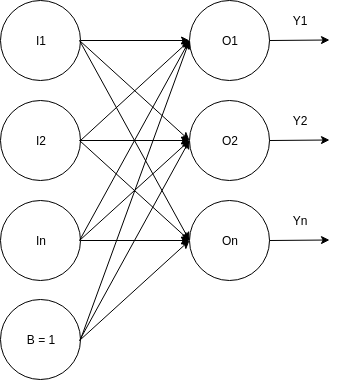
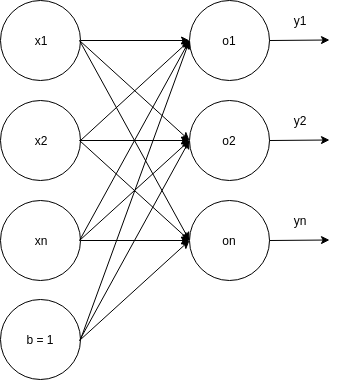
Typo fixes and enhancement from review

diff --git a/part2/train.go b/part2/train.go
@@ -13,11 +13,11 @@ type Neuron struct {
 	ActivationDerivative func(float64) float64
 }
 
-func (p Neuron) Predict(I1, I2 float64) float64 {
+func (p Neuron) Predict(x1, x2 float64) float64 {
 
 	var output float64
 
-	for i, input := range []float64{I1, I2, 1} {
+	for i, input := range []float64{x1, x2, 1} {
 		output += p.Weight[i] * input
 	}
 
@@ -71,35 +71,35 @@ func main() {
 
 	p.Train(
 		[][]float64{ // List of Inputs
-			[]float64{0, 1},
-			[]float64{1, 1},
-			[]float64{1, 0},
 			[]float64{0, 0},
+			[]float64{0, 1},
+			[]float64{1, 0},
+			[]float64{1, 1},
 		},
 		[]float64{ // Expected outputs
-			1,
-			1,
-			1,
 			0,
+			1,
+			1,
+			1,
 		},
 	)
 
 	// Test our data and print the network result
-	var a, b float64
+	var x1, x2 float64
 
-	a = 0.0
-	b = 0.0
-	fmt.Printf("(%f,%f) -> %f\n", a, b, p.Predict(a, b))
+	x1 = 0.0
+	x2 = 0.0
+	fmt.Printf("(%f,%f) = %f\n", x1, x2, p.Predict(x1, x2, 1))
 
-	a = 1.0
-	b = 0.0
-	fmt.Printf("(%f,%f) -> %f\n", a, b, p.Predict(a, b))
+	x1 = 1.0
+	x2 = 0.0
+	fmt.Printf("(%f,%f) = %f\n", x1, x2, p.Predict(x1, x2, 1))
 
-	a = 0.0
-	b = 1.0
-	fmt.Printf("(%f,%f) -> %f\n", a, b, p.Predict(a, b))
+	x1 = 0.0
+	x2 = 1.0
+	fmt.Printf("(%f,%f) = %f\n", x1, x2, p.Predict(x1, x2, 1))
 
-	a = 1.0
-	b = 1.0
-	fmt.Printf("(%f,%f) -> %f\n", a, b, p.Predict(a, b))
+	x1 = 1.0
+	x2 = 1.0
+	fmt.Printf("(%f,%f) = %f\n", x1, x2, p.Predict(x1, x2, 1))
 }

diff --git a/part1/or_gate.go b/part1/or_gate.go
@@ -10,14 +10,13 @@ type Neuron struct {
 	Activation func(float64) float64
 }
 
-func (p Neuron) Predict(I1, I2, B float64) float64 {
+func (p Neuron) Predict(x1, x2, b float64) float64 {
 
 	var output float64
 
-	for i, input := range []float64{I1, I2, B} {
+	for i, input := range []float64{x1, x2, b} {
 		output += p.Weight[i] * input
 	}
-
 	return p.Activation(output)
 }
 
@@ -30,22 +29,21 @@ func main() {
 		},
 	}
 
-	var a, b float64
+	var x1, x2 float64
 
-	a = 0.0
-	b = 0.0
-	fmt.Printf("(%f,%f) = %f\n", a, b, p.Predict(a, b, 1))
+	x1 = 0.0
+	x2 = 0.0
+	fmt.Printf("(%f,%f) = %f\n", x1, x2, p.Predict(x1, x2, 1))
 
-	a = 1.0
-	b = 0.0
-	fmt.Printf("(%f,%f) = %f\n", a, b, p.Predict(a, b, 1))
+	x1 = 1.0
+	x2 = 0.0
+	fmt.Printf("(%f,%f) = %f\n", x1, x2, p.Predict(x1, x2, 1))
 
-	a = 0.0
-	b = 1.0
-	fmt.Printf("(%f,%f) = %f\n", a, b, p.Predict(a, b, 1))
+	x1 = 0.0
+	x2 = 1.0
+	fmt.Printf("(%f,%f) = %f\n", x1, x2, p.Predict(x1, x2, 1))
 
-	a = 1.0
-	b = 1.0
-	fmt.Printf("(%f,%f) = %f\n", a, b, p.Predict(a, b, 1))
-
+	x1 = 1.0
+	x2 = 1.0
+	fmt.Printf("(%f,%f) = %f\n", x1, x2, p.Predict(x1, x2, 1))
 }

diff --git a/part2/README.md b/part2/README.md
@@ -82,7 +82,7 @@ From here, we can place our actual outputs on it:
 
 ![Error functions with our random weights](../img/part2/errors_and_random_weights.png "Error functions and our random weights")
 
-- green point, corresponding to (0,1) input, which is correct answer is at the bottom of the blue curve.
+- Green point, corresponding to (0,1) input, which is correct answer is at the bottom of the blue curve.
 - Other points are wrong (*E(y) >> 0*), but on their respective curves.
 
 Now the goal will be to adjust our weights, so each points slides slowly down to the minimum of the curve.
@@ -152,7 +152,7 @@ We can obtain same result as above a bit quicker. First let's remember our netwo
 ![Or network detailed](../img/part2/or_network_detailed.png "Or network detailed")
 
 The chain rule allows us to *express the derivative of the composition of 2 or more functions*.
->e can write like so:
+we can write it like so:
 
 ![w1 gradient](../img/part2/gradient_w1.png "w1 gradient")
 
@@ -168,7 +168,7 @@ So:
 dS/dw1 = 1*x1 + 0 + 0
 dS/dw1 = x1
 
-This also give:
+This gives:
 dS/dw2 = x2
 dS/dw3 = 1
 ```
@@ -176,13 +176,13 @@ dS/dw3 = 1
 Second member dy/dS:
 
 ```
-We had;
+We had:
 y = A(S)
 
 So:
 dy/dS = A'(S) where A is a Sigmoid and it derivate as: A'(S) = A(S) * (1 - A(S))
 
-This give:
+This gives:
 dy/dS = y * (1 - y)
 ```
 
@@ -207,11 +207,11 @@ dE/dw2 = -2 * (t - y) * (y * (1 - y)) * x2
 dE/dw3 = -2 * (t - y) * (y * (1 - y)) * 1
 ```
 
-As we can see, both methods lead to same results. We now have expressed the contribution of each weights to the global error.
+As we can see, both methods lead to the same results. We now have expressed the contribution of each weights to the global error.
 
 ### Descent & Backpropagation
 
-Now that we have a gradient expression, we can calculate by how much we need to update our weights given a network output. Then, as we want to **descend** toward the minimum of the error, we'll need to substract it to our weights. But, we want also to take **small steps** doing that, as fully substracting the gradient to the weight may overshoot the minimum and make the network unable to reach it.
+Now that we have a gradient expression, we can calculate by how much we need to update our weights given a network output. Then, as we want to **descend** toward the minimum of the error, we'll need to substract it from our weights. But, we want also to take **small steps** doing that, as fully substracting the gradient from the weight may overshoot the minimum and make the network unable to reach it.
 
 This step size is usually defined by the **learning rate** of a neural network. Which is a constant defined to a small value (like 0.1) which will get multiplied to our gradient to apply only 10% of it, in our example.
 
@@ -236,13 +236,13 @@ endfor
 
 As we see, we're removing a fraction of each weight's gradient to their respective weights. Making them slowly produce a more accurate output on each epoch loops.
 
-Now, how do define learning rate and epochs ?
+Now, how to define the learning rate and the epochs variables?
 
 Learning rate:
 
-- the smaller it gets, the most accurate the results will be.
-- but will also increase the number of epochs needed to get to the minimum.
-- if too big, you may overshoot the minimum and get stuck oscillating around it.
+- The smaller it gets, the most accurate the results will be.
+- But will also increase the number of epochs needed to get to the minimum.
+- If too big, you may overshoot the minimum and get stuck oscillating around it.
 
 Epochs:
 
@@ -416,6 +416,8 @@ $ go run train.go
 (0.000000,1.000000) -> 0.915328
 (1.000000,1.000000) -> 0.998621
 ```
+
+We notice that we get slighly less accurate results than the first version where we calculated manually the numbers. This could mean we need more epochs and/or a smaller learning rate to refine the output. But for now, this is showing what we want if we considere as 0 everything below 0.2 and 1 everything above 0.8.
 
 As extra, we can observe what's going on inside the network.
 

diff --git a/part1/README.md b/part1/README.md
@@ -19,14 +19,14 @@ Each **inputs** has its own weight. Plus an extra **bias input**, always equals 
 
 As a first example, we'll try to make a neuron able to solve a OR gate. As a reminder, OR gate is like this:
 
-I1 | I2 | Output
+x1 | x2 | Output
 --- | --- | ---
 0| 0 | 0
 0 | 1 | 1
 1 | 0 | 1
 1 | 1 | 1
 
-Which can be visualized in a plan:
+Which can be visualized in a plot:
 
 ![or_gate](../img/part1/or.png "The OR gate")
 
@@ -46,14 +46,14 @@ Now let's see how we can make our neuron do the same.
 
 Let's first define our network structure:
 
- - 2 inputs
- - 1 output
+ - 2 inputs (x1 and x2)
+ - 1 output (y)
 
 ![or_network](../img/part1/or_network.png "The OR network")
 
 So we have the following:
 
-y = A((w1\*X1) + (w2\*X2) + (w3\*1))
+y = A((w1\*x1) + (w2\*x2) + (w3\*1))
 
 From here, we want to define what should be this A function, and what are the values of w1, w2 and b such as:
 
@@ -142,6 +142,7 @@ So we have :
 ```
 
 This seems to work !
+We picked large numbers there to maximize the effect of the sigmoid function and get results closers to the expected 0 or 1. This also works with numbers like 4, 6 and -1 but would produce outputs like 0.95 or 0.25...
 
 Let's draw this line on the first plot to see how it looks. We can get the line equation by resolving:
 ```
@@ -167,7 +168,6 @@ We start by defining a type for our neuron:
 ```go
 type Neuron struct {
 	Weight     []float64
-	Bias       float64
 	Activation func(float64) float64
 }
 ```
@@ -189,18 +189,18 @@ func main() {
 Then, we want to create a new function, taking the input data, and returning an output like so:
 
 ```go
-out := p.Predict(0.0, 1.0, 1.0) // I1, I2 and B
+out := p.Predict(0.0, 1.0, 1.0) // x1, x2 and b
 ```
 
 And finally the Predict function, where we sum all the inputs multiplied by their weights, and give this to the activation function:
 
 ```go
 
-func (p Neuron) Predict(I1, I2, B float64) float64 {
+func (p Neuron) Predict(x1, x2, b float64) float64 {
 
 	var output float64
 
-	for i, input := range []float64{I1, I2, B} {
+	for i, input := range []float64{x1, x2, b} {
 		output += p.Weight[i] * input
 	}
 
@@ -219,6 +219,8 @@ We get the following result:
 (0.000000,1.000000) = 1.000000
 (1.000000,1.000000) = 1.000000
 ```
+
+We're even out of the float64 precision thus output get rounded to 0 and 1 directly.
 
 Next, in [part 2](../part2/README.md), we'll see how the network can use **training** to learn by itself those w1, w2 and w3 values.
 
